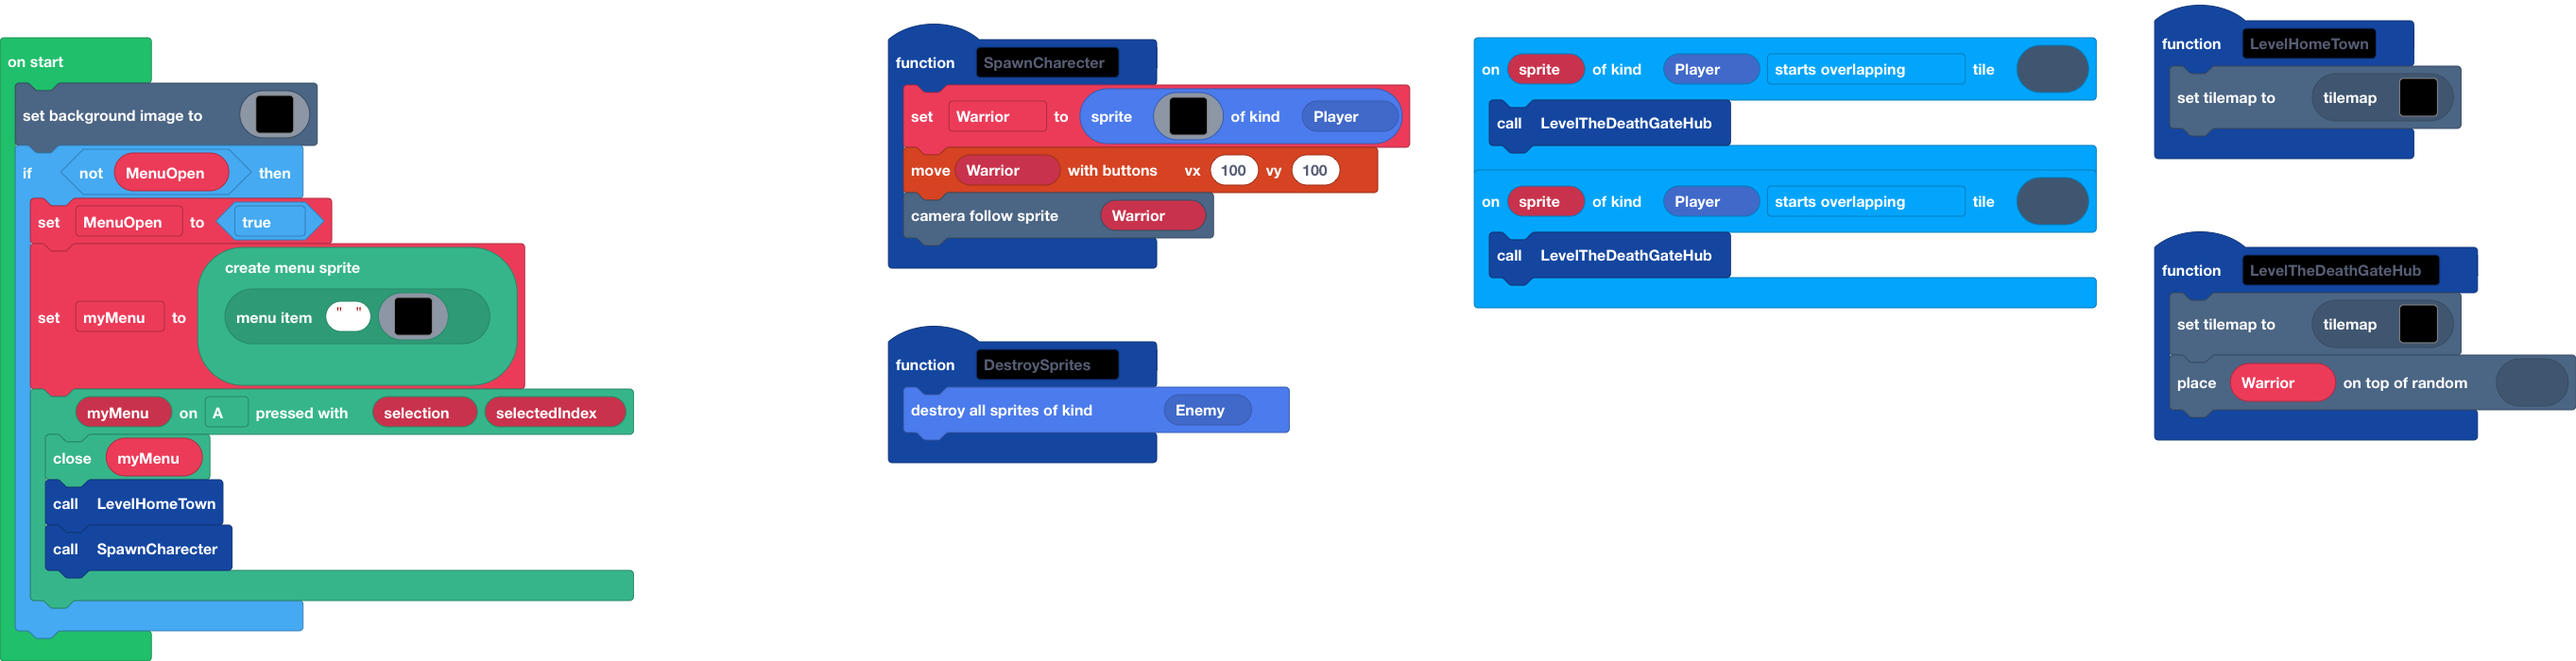
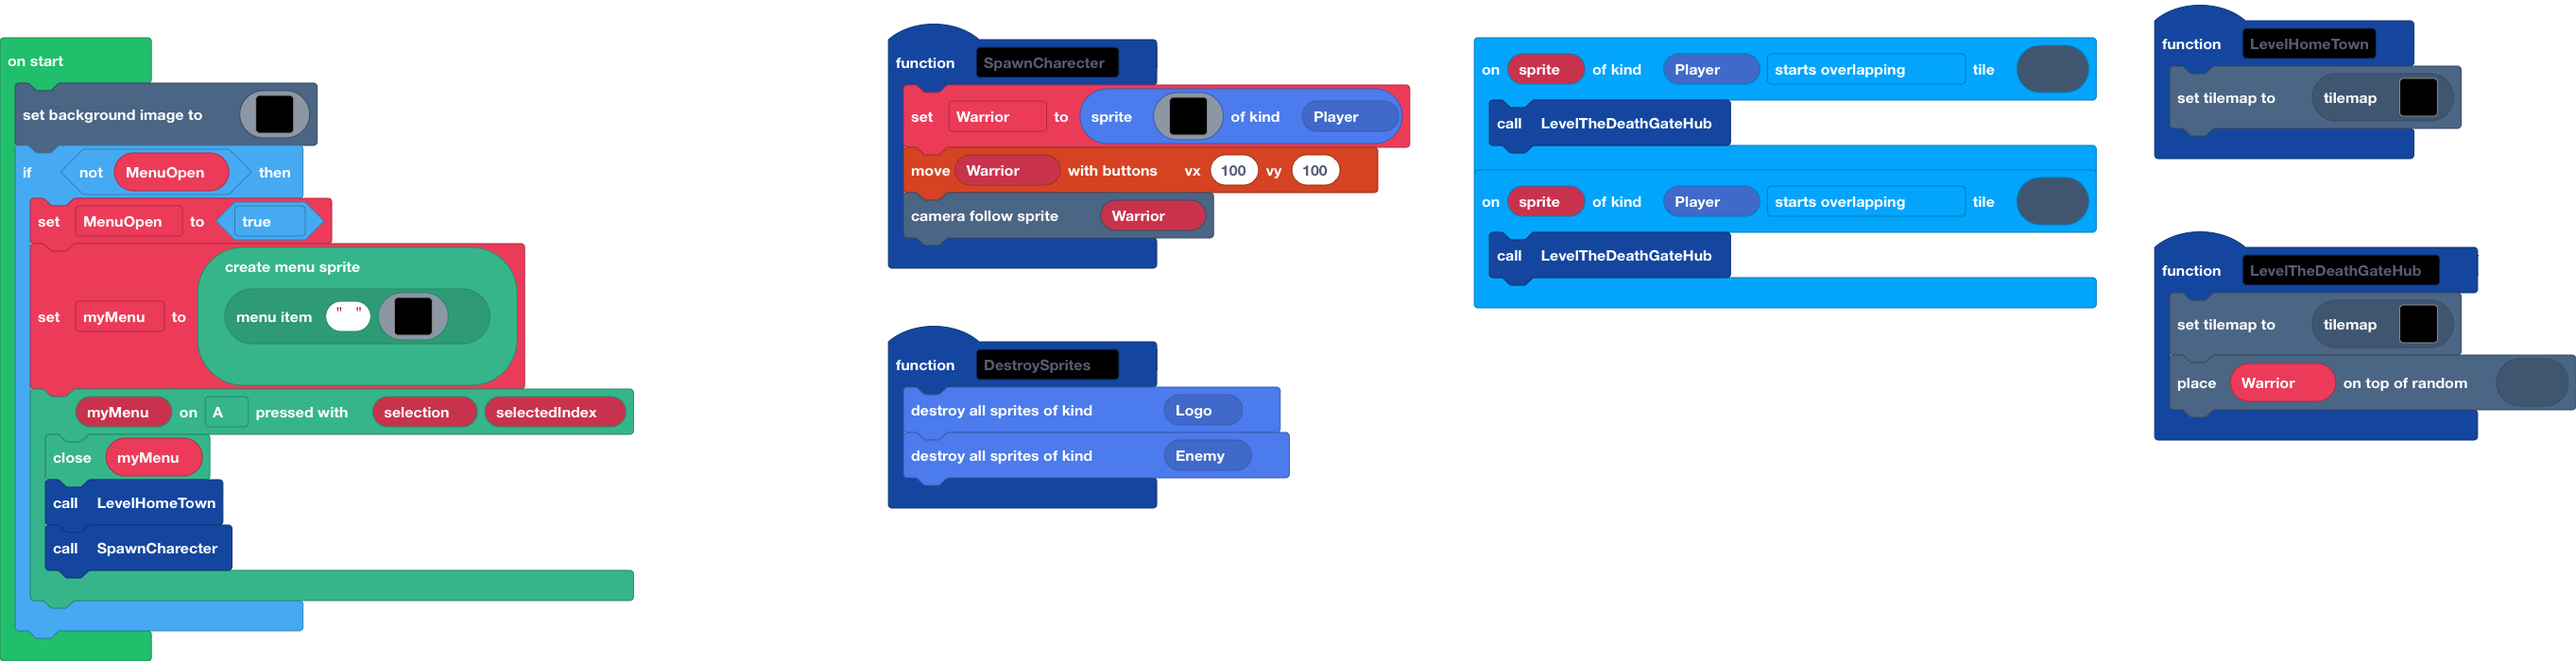
Update main.blocks, main.ts, tilemap.g.jres, tilemap.g.ts

diff --git a/tilemap.g.ts b/tilemap.g.ts
@@ -11,11 +11,19 @@ namespace myTiles {
     //% fixedInstance jres blockIdentity=images._tile
     export const tile6 = image.ofBuffer(hex``);
     //% fixedInstance jres blockIdentity=images._tile
-    export const tile5 = image.ofBuffer(hex``);
+    export const tile11 = image.ofBuffer(hex``);
+    //% fixedInstance jres blockIdentity=images._tile
+    export const tile10 = image.ofBuffer(hex``);
+    //% fixedInstance jres blockIdentity=images._tile
+    export const tile9 = image.ofBuffer(hex``);
+    //% fixedInstance jres blockIdentity=images._tile
+    export const tile1 = image.ofBuffer(hex``);
+    //% fixedInstance jres blockIdentity=images._tile
+    export const tile8 = image.ofBuffer(hex``);
     //% fixedInstance jres blockIdentity=images._tile
     export const tile7 = image.ofBuffer(hex``);
     //% fixedInstance jres blockIdentity=images._tile
-    export const tile8 = image.ofBuffer(hex``);
+    export const tile5 = image.ofBuffer(hex``);
 
     helpers._registerFactory("tilemap", function(name: string) {
         switch(helpers.stringTrim(name)) {
@@ -58,7 +66,7 @@ namespace myTiles {
 . . . . . . . . . . . . . . . . 
 `, [myTiles.transparency16,sprites.castle.tileGrass2,sprites.castle.tileGrass1,myTiles.tile3,myTiles.tile4], TileScale.Sixteen);
             case "DeathGateHub":
[2 lines of base64/hex data omitted]
 2 2 2 2 2 2 2 2 2 2 2 2 2 2 2 2 2 
 2 . . . . . . . . . . . . . . . 2 
 2 . . . . . . . . . . . . . . . 2 
@@ -76,7 +84,7 @@ namespace myTiles {
 2 . . . . . . . . . . . . . . . 2 
 2 . . . . . . . . . . . . . . . 2 
 2 2 2 2 2 2 2 2 2 2 2 2 2 2 2 2 2 
-`, [myTiles.transparency16,sprites.dungeon.floorDark2,sprites.dungeon.floorLight2,sprites.dungeon.floorDark0,sprites.dungeon.floorLightMoss,sprites.dungeon.floorDark1,sprites.dungeon.purpleOuterNorthEast,sprites.dungeon.purpleOuterSouthEast,sprites.dungeon.purpleOuterNorthWest,sprites.dungeon.purpleOuterWest0,sprites.dungeon.purpleOuterEast1,sprites.dungeon.purpleOuterNorth0,sprites.dungeon.purpleOuterSouthWest,sprites.dungeon.purpleOuterSouth1,sprites.dungeon.floorDark4,sprites.dungeon.floorDarkDiamond,sprites.dungeon.floorLight4,sprites.dungeon.floorLight5,sprites.dungeon.floorDark3,myTiles.tile5,myTiles.tile7,myTiles.tile8,sprites.dungeon.floorLight0], TileScale.Sixteen);
+`, [myTiles.transparency16,sprites.dungeon.floorDark2,sprites.dungeon.floorLight2,sprites.dungeon.floorDark0,sprites.dungeon.floorLightMoss,sprites.dungeon.floorDark1,sprites.dungeon.purpleOuterNorthEast,sprites.dungeon.purpleOuterSouthEast,sprites.dungeon.purpleOuterNorthWest,sprites.dungeon.purpleOuterWest0,sprites.dungeon.purpleOuterEast1,sprites.dungeon.purpleOuterNorth0,sprites.dungeon.purpleOuterSouthWest,sprites.dungeon.purpleOuterSouth1,sprites.dungeon.floorDark4,sprites.dungeon.floorDarkDiamond,sprites.dungeon.floorLight4,sprites.dungeon.floorLight5,sprites.dungeon.floorDark3,myTiles.tile5,myTiles.tile7,myTiles.tile8,sprites.dungeon.floorLight0,myTiles.tile1,myTiles.tile9,myTiles.tile10,myTiles.tile6,myTiles.tile11], TileScale.Sixteen);
         }
         return null;
     })
@@ -92,12 +100,20 @@ namespace myTiles {
             case "tile4":return tile4;
             case "myTile4":
             case "tile6":return tile6;
-            case "myTile3":
-            case "tile5":return tile5;
-            case "myTile5":
-            case "tile7":return tile7;
+            case "myTile10":
+            case "tile11":return tile11;
+            case "myTile9":
+            case "tile10":return tile10;
+            case "myTile8":
+            case "tile9":return tile9;
+            case "myTile7":
+            case "tile1":return tile1;
             case "myTile6":
             case "tile8":return tile8;
+            case "myTile5":
+            case "tile7":return tile7;
+            case "myTile3":
+            case "tile5":return tile5;
         }
         return null;
     })

diff --git a/main.ts b/main.ts
@@ -13,6 +13,7 @@ function LevelHomeTown () {
     tiles.setCurrentTilemap(tilemap`level1`)
 }
 function DestroySprites () {
+    sprites.destroyAllSpritesOfKind(SpriteKind.Logo)
     sprites.destroyAllSpritesOfKind(SpriteKind.Enemy)
 }
 events.tileEvent(SpriteKind.Player, assets.tile`myTile2`, events.TileEvent.StartOverlapping, function (sprite) {
